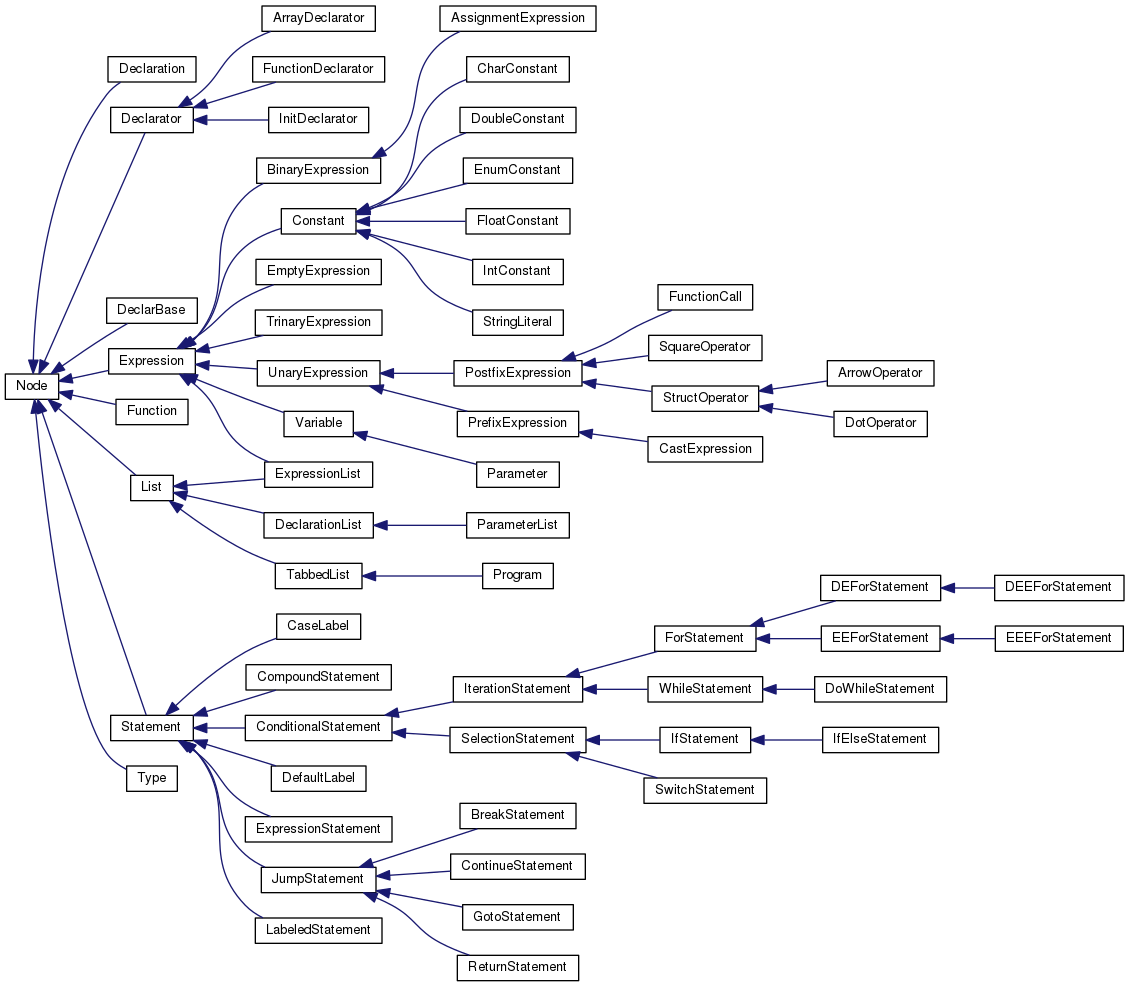
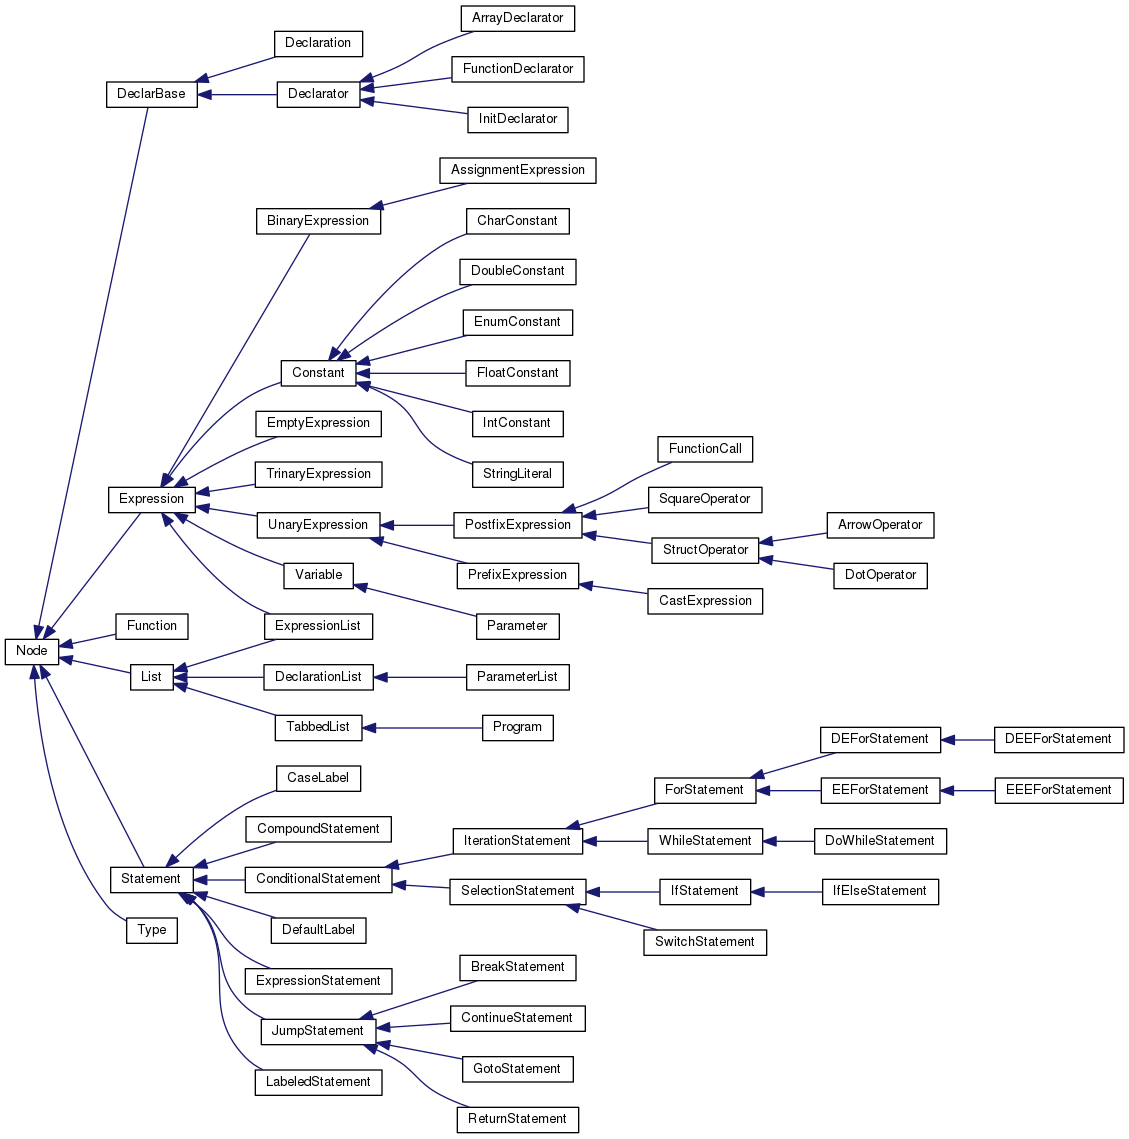
connected declaration and declarator to declarbase

diff --git a/include/ast/declaration.hpp b/include/ast/declaration.hpp
@@ -7,7 +7,7 @@
 class DeclarBase : public Node {};
 
 //! A declarator is what we are declaring; it is essentially just an ID when it follows a specifier.
-class Declarator : public Node {
+class Declarator : public DeclarBase {
 const Node * child;
 mutable int ptr = 0;
 public:
@@ -60,7 +60,7 @@ public:
 //! \brief A declaration of a variable
 //! 
 //! A declaration has a type and a list of declared things
-class Declaration : public Node {
+class Declaration : public DeclarBase {
 private:
   const Type * type;
   const List * dlist;

diff --git a/3-compiler-documentation.md b/3-compiler-documentation.md
@@ -17,17 +17,6 @@ Overview Diagram
 _Add a diagram of your AST, which is designed to *usefully* communicate
 the *important* properties of the AST._
 
-- _Use whatever level of detail you feel is appropriate_.
-
-- _You do not need to include every part of the AST, and you
-  don't need to include every class_.
-
-- _Zooming should not be necessary to understand it_.
-
-The file should be called `my-ast.png`. The software used
-to generate the png is up to you, or you can draw it by hand
-and scan it if you wish (though beware the eventual file-size).
-
 ![my-ast.png](my-ast.png)
 
 Description
